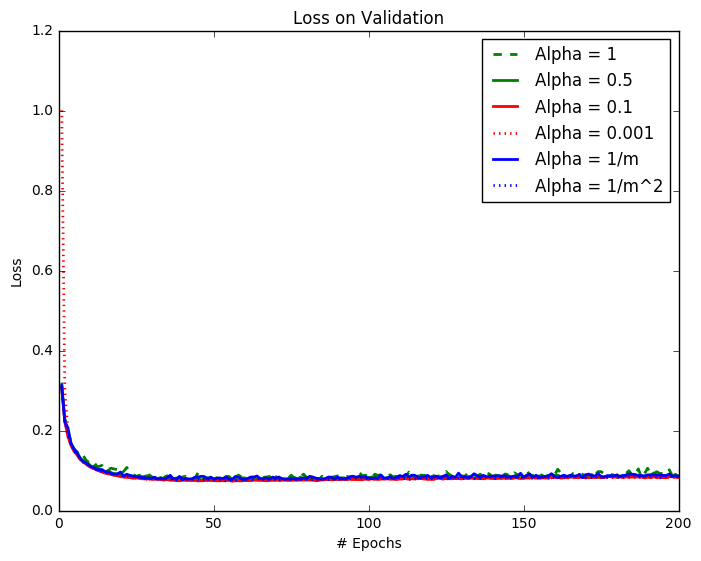
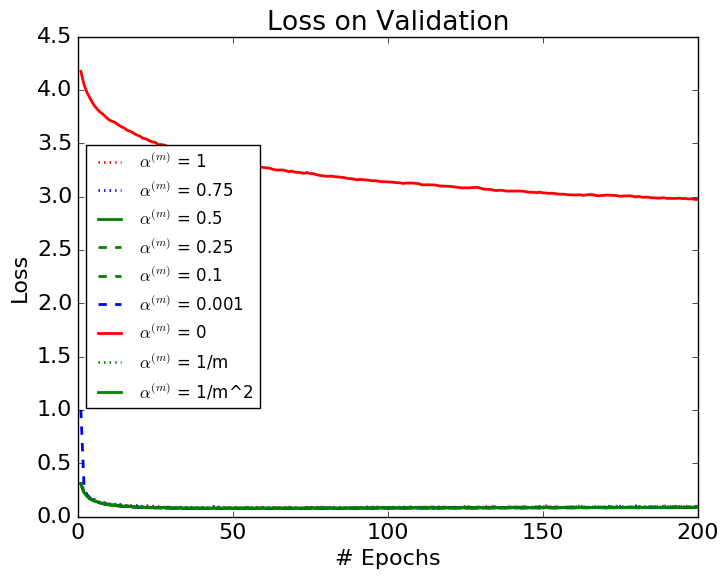
update local

Changed region(s): [[0.0, 0.0, 0.9886, 1.0]]

diff --git a/nips2017/draw_adopt_to_data.py b/nips2017/draw_adopt_to_data.py
@@ -68,7 +68,7 @@ PRINT = [
 
 # SPEC = ['b-', 'c:', 'r-.', 'g--', 'kv', 'c-', 'r:', 'g-.', 'k-','r-', 'g:','rv','gv']
 
-colors=('b','g','r')
+colors=('b','g','r','g')
 # colors=('m','c','b','g','r')
 #,'#CE0058' Rubine
 # k black
@@ -157,12 +157,13 @@ def main(num_epochs=NUM_EPOCHS):
     if DRAW_COMPARE:
 
         #PLFOT 
-        matplotlib.rcParams.update({'font.size': 10})
+        matplotlib.rcParams.update({'font.size': 16})
 
 #!!!
         if PRINT[1] == 1:
             plt.figure(1)
             plt.title('Loss on Validation')
+
             
             for model in models:
                 index = models.index(model)
@@ -170,7 +171,12 @@ def main(num_epochs=NUM_EPOCHS):
 
             plt.xlabel('# Epochs')
             plt.ylabel('Loss')
-            plt.legend()
+            # plt.legend(bbox_to_anchor=(1,0.65)) # 10 lines
+            # plt.legend(bbox_to_anchor=(1,1)) # 5 lines
+            plt.legend(loc='best', fontsize = 12)
+            axes = plt.gca()
+            # axes.set_ylim([0.05,0.15]) # 5 lines
+
             # plt.show()
             pylab.savefig(PATH_FIGURE+'CM_Validation_Loss'+'.png',bbox_inches='tight')
 
@@ -226,7 +232,7 @@ def main(num_epochs=NUM_EPOCHS):
 
             axes = plt.gca()
             # axes.set_xlim([xmin,xmax])
-            axes.set_ylim([0.972,0.987])
+            # axes.set_ylim([0.972,0.987]) # 5 line
             
             for model in models:
                 index = models.index(model)
@@ -234,7 +240,10 @@ def main(num_epochs=NUM_EPOCHS):
 
             plt.xlabel('# Epochs')
             plt.ylabel('Predict Accuracy')
-            plt.legend(bbox_to_anchor=(1,0.4))
+            # plt.legend(bbox_to_anchor=(1,0.8)) # all 10 lines
+            # plt.legend(bbox_to_anchor=(1,0.4)) # 5 line
+            plt.legend(loc='best', fontsize = 12)
+
             # plt.show()
             pylab.savefig(PATH_FIGURE+'CM_Test_Set_Accuracy'+'.png',bbox_inches='tight')
 

diff --git a/nips2017/Command_Linux.py b/nips2017/Command_Linux.py
@@ -1,0 +1,27 @@
+Hints:
+ python main.py --help
+Run MLP and MLPBN with given parameters:
+arg:	[NUM_EPOCHS](500)
+	[NUM_HIDDEN_NODES](500)
+	[cpu\gpu\draw](default=GPU1)
+	[original\dbn\dbn2\const?](What BN lagorithm to use, default=original)
+		(original is the original BN algorithm. dbn is 1/m MA, dbn2 is 1/m^2 MA.)
+		(const_? is constant alpha=?,?=1, 075, 05, 025, 01, 001, 0001, 0
+
+================================================================================================================
+
+commands
+
+python main.py 200 300 gpu0 const1
+python main.py 200 300 gpu1 const075
+python main.py 200 300 gpu2 const05
+
+python main.py 200 300 gpu0 const025
+python main.py 200 300 gpu1 const01
+python main.py 200 300 gpu2 const001
+
+python main.py 200 300 gpu0 const0001
+python main.py 200 300 gpu1 dbn
+python main.py 200 300 gpu2 dbn2
+
+python main.py 200 300 gpu2 const0
